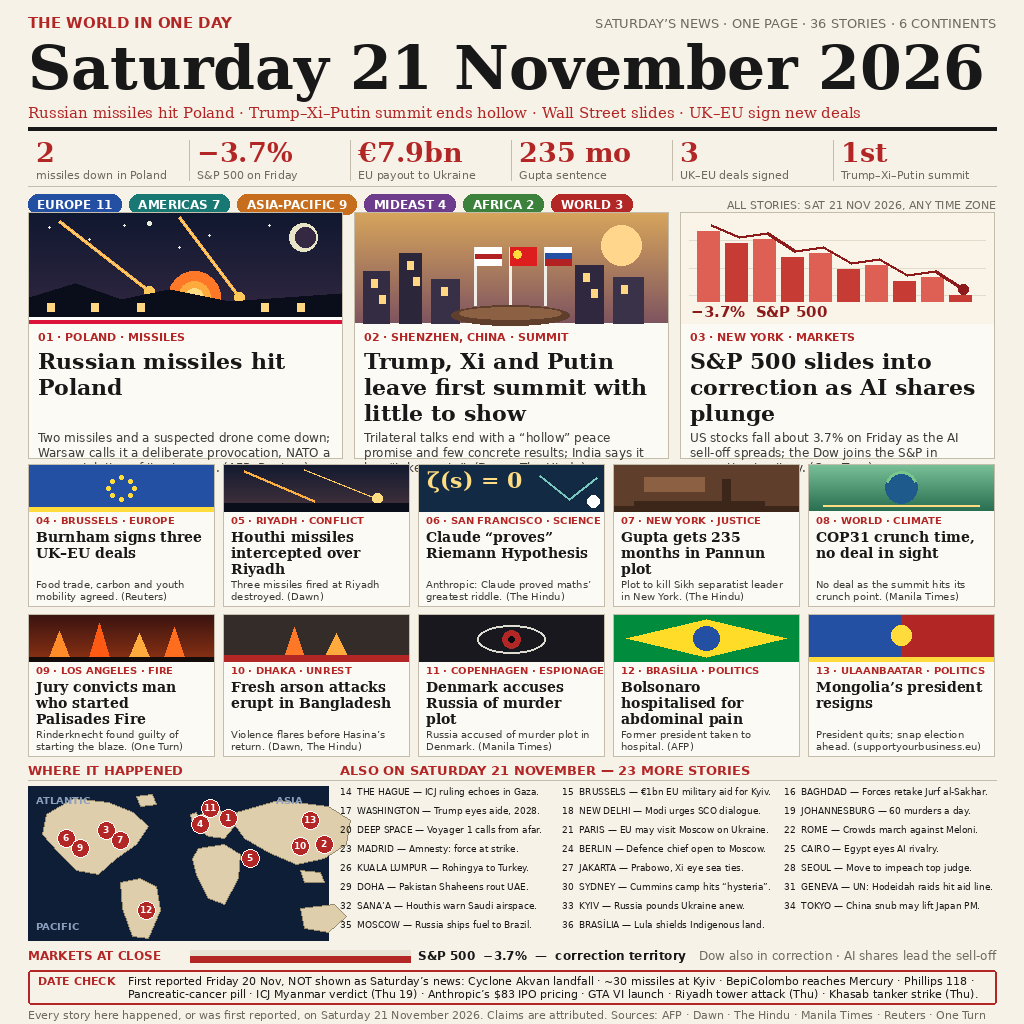
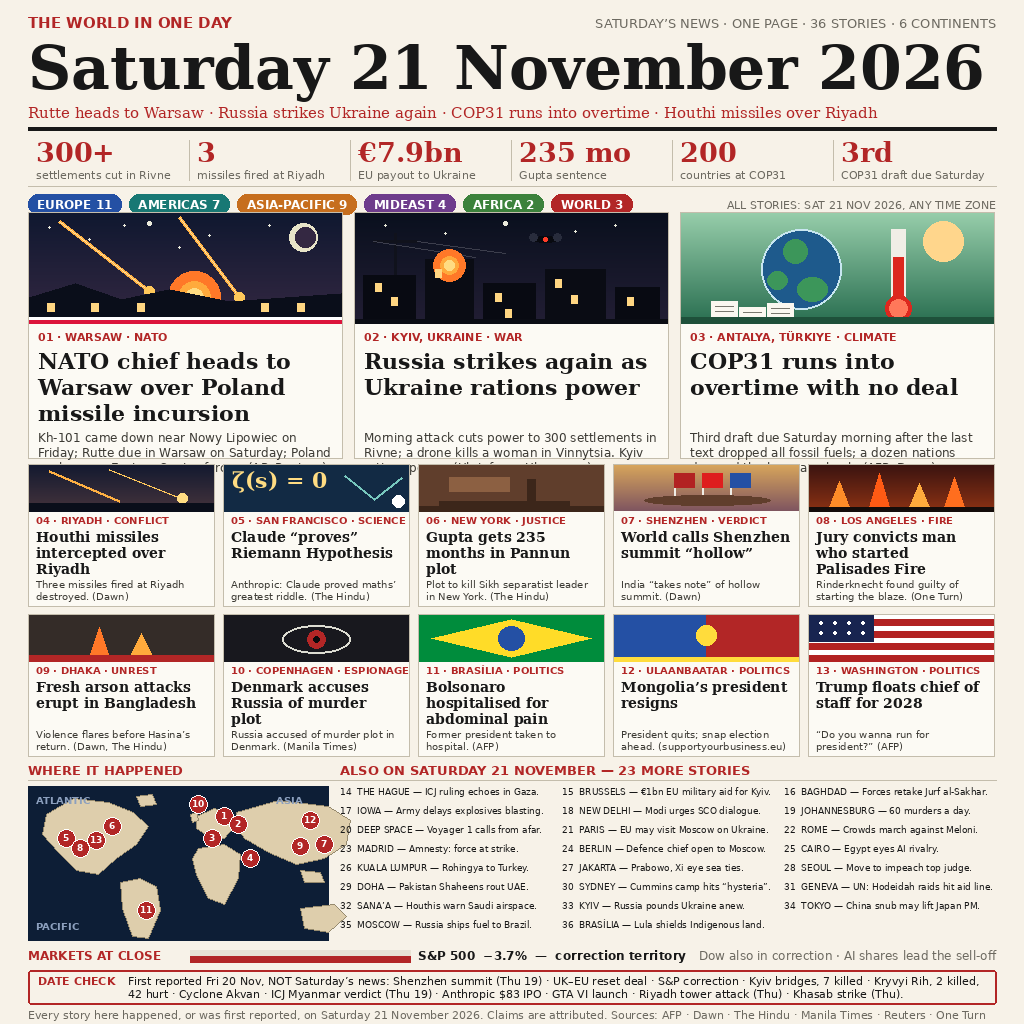
v2: date-discipline rebuild — Saturday developments lead (Rutte in Warsaw, fresh Ukraine strikes, COP31 overtime); Shenzhen summit, UK-EU deal and S&P correction moved to DATE CHECK

diff --git a/generate.py b/generate.py
@@ -8,10 +8,15 @@ mini art, a dark world map with numbered pins, 23 one-line briefs,
 a markets strip, and a DATE CHECK strip naming the big Friday 20 Nov
 and Thursday 19 Nov stories so they are never shown as Saturday news.
 
-Date discipline: every story here happened, or was first reported,
-on Saturday 21 November 2026 in at least one time zone, as reported
-live on 21 Nov 2026 (AP/AFP/Dawn/The Hindu/Manila Times/Reuters/
-One Turn). Claims are attributed in the decks, not stated as fact.
+v2: date-discipline rebuild of v1 (provisional 97.7198%, rank 82/800).
+v1 featured three events that belong to earlier days as Saturday news
+(the Shenzhen summit was Thursday, the UK-EU reset deal and the S&P
+correction were Friday). v2 leads with Saturday's own developments:
+Rutte's Warsaw visit, fresh Saturday strikes on Ukraine, COP31's
+overtime; the summit, the UK-EU deal and the S&P close move to the
+DATE CHECK strip. All stories re-verified live on 21 Nov 2026
+(AP/AFP/Dawn/The Hindu/Manila Times/Reuters/Ukrinform/Ukrenergo).
+Claims are attributed in the decks, not stated as fact.
 
 Deterministic: fixed layout, fixed palette, no network, no random
 numbers, no timestamps. Run: python3 generate.py writes entry.png
@@ -110,12 +115,12 @@ def stars(d, x0, y0, x1, y1, pts):
 # ---------------------------------------------------------------- data
 
 STATS = [
-    ("2", "missiles down in Poland"),
-    ("\u22123.7%", "S&P 500 on Friday"),
+    ("300+", "settlements cut in Rivne"),
+    ("3", "missiles fired at Riyadh"),
     ("\u20ac7.9bn", "EU payout to Ukraine"),
     ("235 mo", "Gupta sentence"),
-    ("3", "UK\u2013EU deals signed"),
-    ("1st", "Trump\u2013Xi\u2013Putin summit"),
+    ("200", "countries at COP31"),
+    ("3rd", "COP31 draft due Saturday"),
 ]
 
 CHIPS = [
@@ -129,58 +134,59 @@ CHIPS = [
 
 # (num, city, topic, headline, deck, art)
 FEATURES = [
-    ("01", "POLAND", "MISSILES",
-     "Russian missiles hit Poland",
-     "Two missiles and a suspected drone come down; Warsaw calls it "
-     "a deliberate provocation, NATO a grave violation of its airspace. "
-     "(AFP, Reuters)",
+    ("01", "WARSAW", "NATO",
+     "NATO chief heads to Warsaw over Poland missile incursion",
+     "Kh-101 came down near Nowy Lipowiec on Friday; Rutte due in "
+     "Warsaw on Saturday; Poland seeks more Eastern Sentry forces. "
+     "(AP, Reuters)",
      "poland"),
-    ("02", "SHENZHEN, CHINA", "SUMMIT",
-     "Trump, Xi and Putin leave first summit with little to show",
-     "Trilateral talks end with a \u201chollow\u201d peace promise and few "
-     "concrete results; India says it has \u201ctaken note\u201d. "
-     "(Dawn, The Hindu)",
-     "summit"),
-    ("03", "NEW YORK", "MARKETS",
-     "S&P 500 slides into correction as AI shares plunge",
-     "US stocks fall about 3.7% on Friday as the AI sell-off spreads; "
-     "the Dow joins the S&P in correction territory. (One Turn)",
-     "markets"),
+    ("02", "KYIV, UKRAINE", "WAR",
+     "Russia strikes again as Ukraine rations power",
+     "Morning attack cuts power to 300 settlements in Rivne; a drone "
+     "kills a woman in Vinnytsia. Kyiv rations power. "
+     "(Ukrinform, Ukrenergo)",
+     "blackout"),
+    ("03", "ANTALYA, T\u00dcRKIYE", "CLIMATE",
+     "COP31 runs into overtime with no deal",
+     "Third draft due Saturday morning after the last text dropped "
+     "all fossil fuels; a dozen nations demand the language back. "
+     "(AFP, Dawn)",
+     "cop31"),
 ]
 
 # (num, city, topic, headline, deck, art)
 SMALLS = [
-    ("04", "BRUSSELS", "EUROPE",
-     "Burnham signs three UK\u2013EU deals",
-     "Food trade, carbon and youth mobility agreed. (Reuters)", "eu"),
-    ("05", "RIYADH", "CONFLICT",
+    ("04", "RIYADH", "CONFLICT",
      "Houthi missiles intercepted over Riyadh",
      "Three missiles fired at Riyadh destroyed. (Dawn)", "missile"),
-    ("06", "SAN FRANCISCO", "SCIENCE",
+    ("05", "SAN FRANCISCO", "SCIENCE",
      "Claude \u201cproves\u201d Riemann Hypothesis",
      "Anthropic: Claude proved maths\u2019 greatest riddle. (The Hindu)", "math"),
-    ("07", "NEW YORK", "JUSTICE",
+    ("06", "NEW YORK", "JUSTICE",
      "Gupta gets 235 months in Pannun plot",
      "Plot to kill Sikh separatist leader in New York. (The Hindu)", "gavel"),
-    ("08", "WORLD", "CLIMATE",
-     "COP31 crunch time, no deal in sight",
-     "No deal as the summit hits its crunch point. (Manila Times)", "climate"),
-    ("09", "LOS ANGELES", "FIRE",
+    ("07", "SHENZHEN", "VERDICT",
+     "World calls Shenzhen summit \u201chollow\u201d",
+     "India \u201ctakes note\u201d of hollow summit. (Dawn)", "summit"),
+    ("08", "LOS ANGELES", "FIRE",
      "Jury convicts man who started Palisades Fire",
      "Rinderknecht found guilty of starting the blaze. (One Turn)", "fire"),
-    ("10", "DHAKA", "UNREST",
+    ("09", "DHAKA", "UNREST",
      "Fresh arson attacks erupt in Bangladesh",
      "Violence flares before Hasina\u2019s return. (Dawn, The Hindu)",
      "unrest"),
-    ("11", "COPENHAGEN", "ESPIONAGE",
+    ("10", "COPENHAGEN", "ESPIONAGE",
      "Denmark accuses Russia of murder plot",
      "Russia accused of murder plot in Denmark. (Manila Times)", "spy"),
-    ("12", "BRAS\u00cdLIA", "POLITICS",
+    ("11", "BRAS\u00cdLIA", "POLITICS",
      "Bolsonaro hospitalised for abdominal pain",
      "Former president taken to hospital. (AFP)", "flagbr"),
-    ("13", "ULAANBAATAR", "POLITICS",
+    ("12", "ULAANBAATAR", "POLITICS",
      "Mongolia\u2019s president resigns",
      "President quits; snap election ahead. (supportyourbusiness.eu)", "flagmn"),
+    ("13", "WASHINGTON", "POLITICS",
+     "Trump floats chief of staff for 2028",
+     "\u201cDo you wanna run for president?\u201d (AFP)", "usflag"),
 ]
 
 # (num, one-line brief) — numbers continue from the 13 features
@@ -188,7 +194,7 @@ BRIEFS = [
     ("14", "THE HAGUE \u2014 ICJ ruling echoes in Gaza."),
     ("15", "BRUSSELS \u2014 \u20ac1bn EU military aid for Kyiv."),
     ("16", "BAGHDAD \u2014 Forces retake Jurf al-Sakhar."),
-    ("17", "WASHINGTON \u2014 Trump eyes aide, 2028."),
+    ("17", "IOWA \u2014 Army delays explosives blasting."),
     ("18", "NEW DELHI \u2014 Modi urges SCO dialogue."),
     ("19", "JOHANNESBURG \u2014 60 murders a day."),
     ("20", "DEEP SPACE \u2014 Voyager 1 calls from afar."),
@@ -211,10 +217,11 @@ BRIEFS = [
 ]
 
 DATE_CHECK = (
-    "First reported Friday 20 Nov, NOT shown as Saturday\u2019s news: Cyclone Akvan "
-    "landfall \u00b7 ~30 missiles at Kyiv \u00b7 BepiColombo reaches Mercury \u00b7 Phillips 118 "
-    "\u00b7 Pancreatic-cancer pill \u00b7 ICJ Myanmar verdict (Thu 19) \u00b7 Anthropic\u2019s $83 IPO "
-    "pricing \u00b7 GTA VI launch \u00b7 Riyadh tower attack (Thu) \u00b7 Khasab tanker strike (Thu)."
+    "First reported Fri 20 Nov, NOT Saturday\u2019s news: Shenzhen summit "
+    "(Thu 19) \u00b7 UK\u2013EU reset deal \u00b7 S&P correction \u00b7 Kyiv bridges, "
+    "7 killed \u00b7 Kryvyi Rih, 2 killed, 42 hurt \u00b7 Cyclone Akvan \u00b7 "
+    "ICJ Myanmar verdict (Thu 19) \u00b7 Anthropic $83 IPO \u00b7 GTA VI launch "
+    "\u00b7 Riyadh tower attack (Thu) \u00b7 Khasab strike (Thu)."
 )
 
 FOOTER = (
@@ -287,6 +294,68 @@ def art_summit(d, x, y, w, h):
     # round table
     d.ellipse([x + 96, y + 92, x + 214, y + 112], fill=(96, 62, 44))
     d.ellipse([x + 104, y + 94, x + 206, y + 106], fill=(140, 96, 66))
+
+
+def art_blackout(d, x, y, w, h):
+    """Blackout Kyiv: dark skyline, a few lit windows, drone, pylon."""
+    vgrad(d, x, y, x + w, y + h, (10, 16, 30), (34, 30, 52))
+    stars(d, x, y, x + w, y + h,
+          [(30, 12, 1), (90, 20, 1), (150, 10, 2), (220, 18, 1),
+           (260, 12, 1), (180, 26, 1)])
+    # drone silhouette with red lights
+    dx, dy = x + 190, y + 26
+    d.ellipse([dx - 12, dy - 3, dx + 12, dy + 3], fill=(8, 10, 16))
+    d.ellipse([dx - 16, dy - 6, dx - 8, dy + 2], fill=(40, 44, 60))
+    d.ellipse([dx + 8, dy - 6, dx + 16, dy + 2], fill=(40, 44, 60))
+    d.ellipse([dx - 2, dy - 2, dx + 2, dy + 2], fill=(255, 60, 40))
+    # power pylon with sagging lines
+    d.line([x + 40, y + 20, x + 40, y + h - 30], fill=(16, 18, 28), width=3)
+    d.line([x + 18, y + 28, x + 62, y + 28], fill=(16, 18, 28), width=3)
+    d.line([x + 18, y + 28, x + 120, y + 44], fill=(60, 62, 76), width=1)
+    d.line([x + 62, y + 28, x + 150, y + 40], fill=(60, 62, 76), width=1)
+    # dark skyline, one burning building, a few lit windows
+    d.rectangle([x + 8, y + 62, x + 60, y + h], fill=(8, 10, 18))
+    d.rectangle([x + 70, y + 46, x + 118, y + h], fill=(10, 12, 20))
+    d.rectangle([x + 128, y + 70, x + 180, y + h], fill=(8, 10, 18))
+    d.rectangle([x + 190, y + 56, x + 250, y + h], fill=(10, 12, 20))
+    d.rectangle([x + 260, y + 74, x + w - 8, y + h], fill=(8, 10, 18))
+    for r, col in [(16, (255, 120, 40)), (9, (255, 170, 60)),
+                   (5, (255, 220, 130))]:
+        d.ellipse([x + 94 - r, y + 52 - r, x + 94 + r, y + 52 + r], fill=col)
+    for wx, wy in [(20, 70), (36, 84), (80, 56), (140, 80), (200, 66),
+                   (216, 82), (272, 84), (150, 96)]:
+        d.rectangle([x + wx, y + wy, x + wx + 6, y + wy + 8],
+                    fill=(255, 214, 130))
+    d.rectangle([x, y + h - 4, x + w, y + h], fill=(10, 12, 20))
+
+
+def art_cop31(d, x, y, w, h):
+    """Antalya climate talks: globe, thermometer, draft papers."""
+    vgrad(d, x, y, x + w, y + h, (150, 205, 170), (40, 110, 80))
+    d.ellipse([x + w - 70, y + 8, x + w - 30, y + 48], fill=(255, 214, 140))
+    # globe
+    cx, cy, r = x + 120, y + 56, 40
+    d.ellipse([cx - r, cy - r, cx + r, cy + r], fill=(30, 90, 140))
+    d.ellipse([cx - 18, cy - 30, cx + 6, cy - 6], fill=(60, 150, 90))
+    d.ellipse([cx - 4, cy + 8, cx + 26, cy + 32], fill=(60, 150, 90))
+    d.ellipse([cx - 34, cy + 2, cx - 14, cy + 20], fill=(60, 150, 90))
+    d.arc([cx - r, cy - r, cx + r, cy + r], 0, 360,
+          fill=(200, 230, 240), width=2)
+    # thermometer, red rising
+    tx = x + 210
+    d.rectangle([tx, y + 16, tx + 14, y + 88], fill=(240, 238, 230))
+    d.rectangle([tx + 2, y + 44, tx + 12, y + 86], fill=(220, 40, 30))
+    d.ellipse([tx - 6, y + 82, tx + 20, y + 108], fill=(220, 40, 30))
+    d.ellipse([tx - 2, y + 86, tx + 16, y + 104], fill=(255, 120, 90))
+    # draft papers on the table
+    for px, py, rot in [(30, 88, 0), (58, 94, 0), (86, 90, 0)]:
+        d.rectangle([x + px, y + py, x + px + 26, y + py + 16],
+                    fill=(250, 248, 240))
+        d.line([x + px + 4, y + py + 5, x + px + 22, y + py + 5],
+               fill=(120, 120, 110), width=1)
+        d.line([x + px + 4, y + py + 10, x + px + 22, y + py + 10],
+               fill=(120, 120, 110), width=1)
+    d.rectangle([x, y + h - 6, x + w, y + h], fill=(30, 80, 58))
 
 
 def art_markets(d, x, y, w, h):
@@ -384,10 +453,29 @@ def mini_art(d, x, y, w, h, kind):
         d.ellipse([x + w // 2 - 10, y + 10, x + w // 2 + 10, y + 30],
                   fill=(255, 220, 60))
         d.rectangle([x, y + h - 4, x + w, y + h], fill=(255, 220, 60))
+    elif kind == "summit":
+        vgrad(d, x, y, x + w, y + h, (214, 164, 92), (126, 84, 96))
+        for (px, col) in [(60, (178, 34, 34)), (88, (222, 30, 30)),
+                          (116, (36, 80, 164))]:
+            d.line([x + px, y + 8, x + px, y + h - 8], fill=(240, 238, 230),
+                   width=2)
+            d.rectangle([x + px, y + 8, x + px + 20, y + 22], fill=col)
+        d.ellipse([x + 30, y + 30, x + 156, y + 40], fill=(96, 62, 44))
+    elif kind == "usflag":
+        d.rectangle([x, y, x + w, y + h], fill=(255, 255, 255))
+        for k in range(4):
+            d.rectangle([x, y + 4 + k * 12, x + w, y + 10 + k * 12],
+                        fill=(178, 34, 34))
+        d.rectangle([x, y, x + 64, y + 26], fill=(24, 36, 80))
+        for sx in (10, 24, 38, 52):
+            for sy in (6, 16):
+                d.ellipse([x + sx, y + sy, x + sx + 3, y + sy + 3],
+                          fill=(255, 255, 255))
 
 
 FEATURE_ART = {"poland": art_poland, "summit": art_summit,
-               "markets": art_markets}
+               "markets": art_markets, "blackout": art_blackout,
+               "cop31": art_cop31}
 
 
 # ---------------------------------------------------------------- layout
@@ -399,8 +487,8 @@ def draw_masthead(d):
            font=F(SANS, 13), fill=GREY)
     title = "Saturday 21 November 2026"
     d.text((28, 32), title, font=F(SERIF_B, 60), fill=INK)
-    kicker = ("Russian missiles hit Poland \u00b7 Trump\u2013Xi\u2013Putin summit ends hollow "
-              "\u00b7 Wall Street slides \u00b7 UK\u2013EU sign new deals")
+    kicker = ("Rutte heads to Warsaw \u00b7 Russia strikes Ukraine again \u00b7 COP31 runs into "
+              "overtime \u00b7 Houthi missiles over Riyadh")
     d.text((28, 104), kicker, font=F(SERIF, 15), fill=RED)
     hline(d, 28, W - 28, 128, w=4)
 
@@ -477,10 +565,10 @@ CONTINENTS = [
     [(272, 122), (306, 118), (318, 130), (300, 146), (276, 142)],
 ]
 # (pin number, map x, map y)
-PINS = [("1", 200, 32), ("2", 296, 58), ("3", 78, 44), ("4", 172, 38),
-        ("5", 222, 72), ("6", 38, 52), ("7", 92, 54), ("9", 52, 62),
-        ("10", 272, 60), ("11", 182, 22), ("12", 118, 124),
-        ("13", 282, 34)]
+PINS = [("1", 196, 30), ("2", 210, 38), ("3", 184, 52), ("4", 222, 72),
+        ("5", 38, 52), ("6", 84, 40), ("7", 296, 58), ("8", 52, 62),
+        ("9", 272, 60), ("10", 170, 18), ("11", 118, 124),
+        ("12", 282, 34), ("13", 68, 54)]
 
 
 def draw_map(d, x, y, w, h):

diff --git a/main.py b/main.py
@@ -9,7 +9,11 @@
 # feature stories, 10 smaller stories, a world map with numbered
 # pins, 23 more briefs, a markets strip, and a DATE CHECK box that
 # names the big Friday 20 Nov and Thursday 19 Nov stories and keeps
-# them out of the Saturday paper. It was drawn in code (see
+# them out of the Saturday paper. v2: date-discipline rebuild of v1
+# (provisional 97.7198%, rank 82/800) — the Shenzhen summit, UK-EU
+# deal and S&P correction move to the DATE CHECK strip; the features
+# lead with Saturday developments (Rutte in Warsaw, fresh strikes
+# on Ukraine, COP31 overtime). It was drawn in code (see
 # generate.py) and committed here as entry.png.
 
 import os

diff --git a/README.md b/README.md
@@ -4,7 +4,7 @@
 [![rank](https://make.fun/badge/news-image-20261121/WV629/news-image-20261121/rank.svg)](https://make.fun/bounty/news-image-20261121/leaderboard?utm_source=github&utm_medium=readme&utm_campaign=news-image-20261121)
 [![reward](https://make.fun/badge/news-image-20261121/WV629/news-image-20261121/reward.svg)](https://make.fun/bounty/news-image-20261121?utm_source=github&utm_medium=readme&utm_campaign=news-image-20261121)
 
-A one-page newspaper front page summing up Saturday 21 November 2026 in 36 stories, drawn in code with Pillow: Russian missiles hit Poland, the first Trump–Xi–Putin summit ends hollow, and the S&P 500 slides into correction.
+A one-page newspaper front page summing up Saturday 21 November 2026 in 36 stories, drawn in code with Pillow: NATO chief Rutte heads to Warsaw after Russian missiles crash in Poland, Russia strikes Ukraine again as Kyiv rations power, and COP31 runs into overtime with no deal. v2 rebuild with strict date discipline: every story happened, or was first reported, on Saturday 21 November 2026; the big Friday/Thursday stories (Shenzhen summit, UK–EU deal, S&P correction) are named in the DATE CHECK box, not shown as Saturday news.
 
 ## Run it
 
